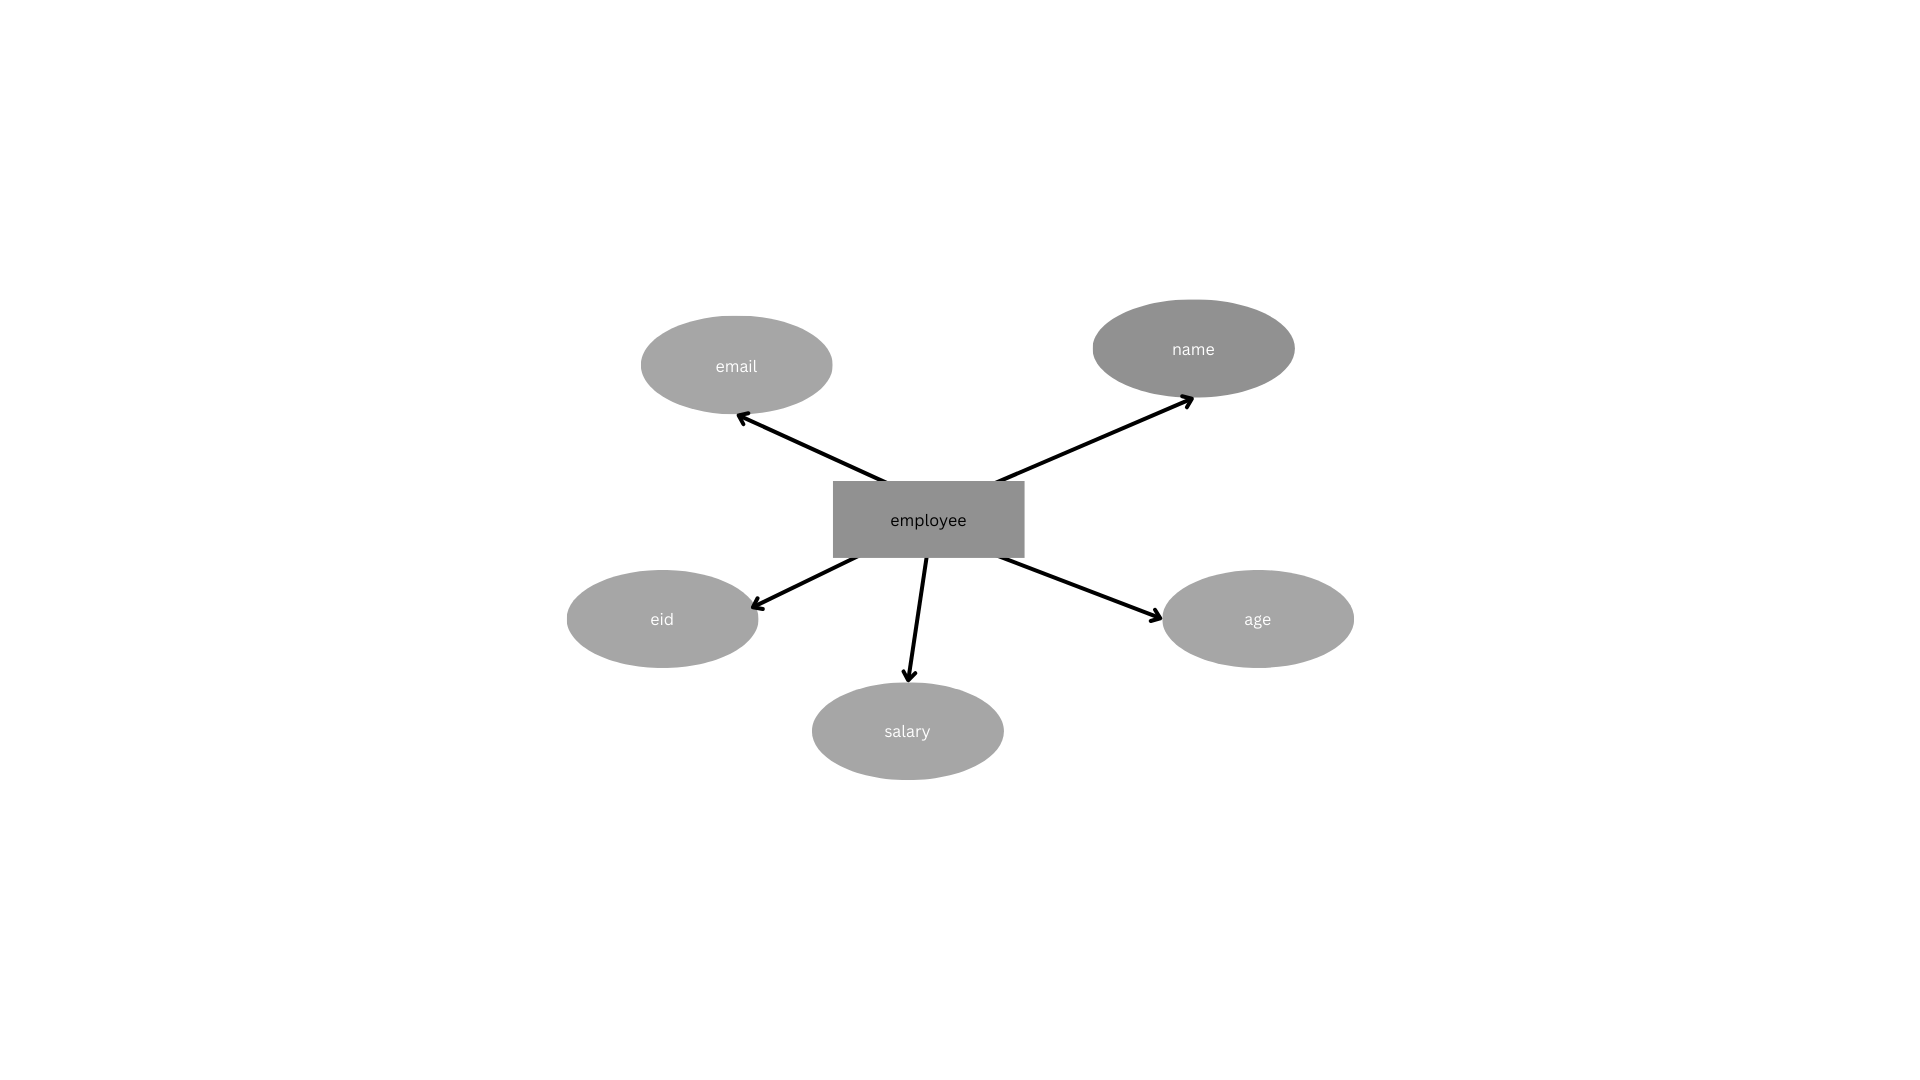
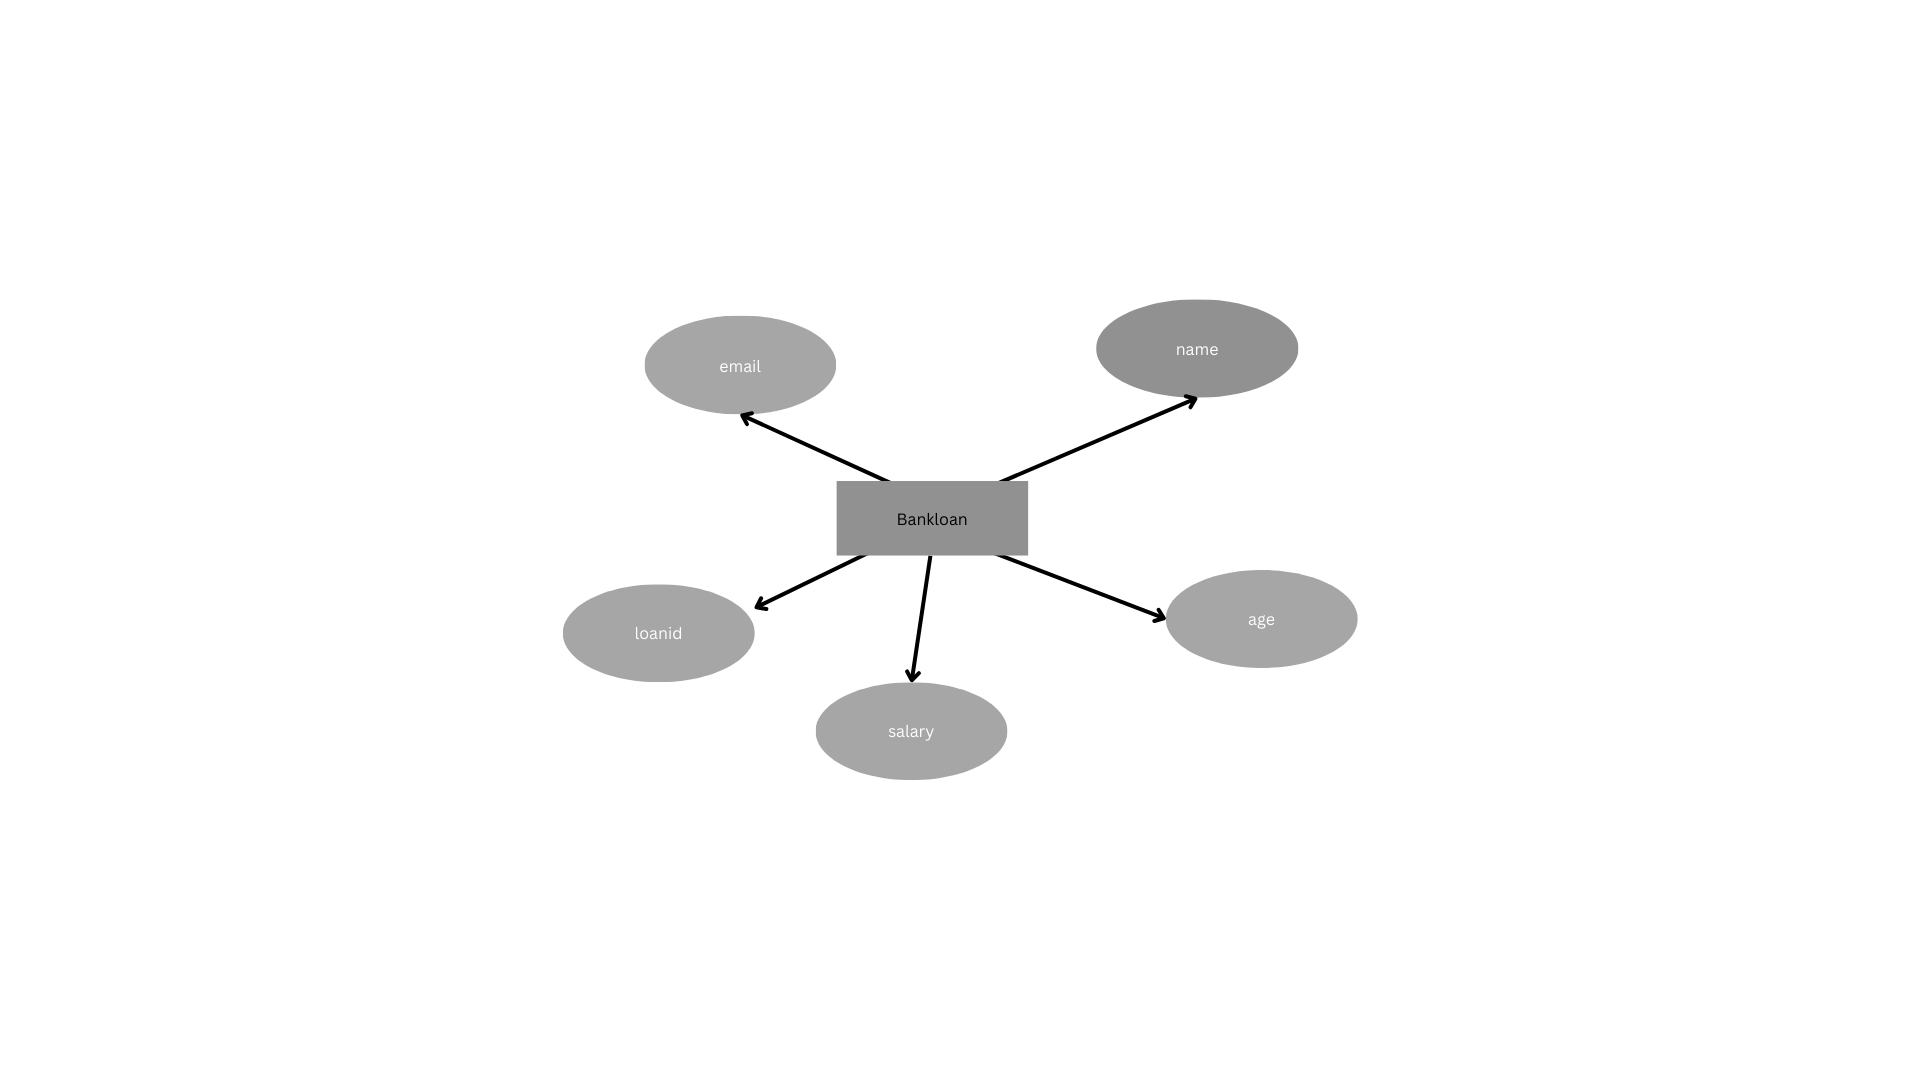
success

diff --git a/john/ormapp/models.py b/john/ormapp/models.py
@@ -1,11 +1,11 @@
 from django.db import models
 from django.contrib import admin 
-class Employee (models.Model):
-    eid=models.CharField(max_length=20,help_text="Employee ID")
+class Bankloan (models.Model):
+    loanid=models.CharField(max_length=20,help_text="Employee ID")
     name=models.CharField(max_length=100)
     salary=models.IntegerField()
     age=models.IntegerField() 
     email=models.EmailField()
 
-class EmployeeAdmin(admin.ModelAdmin):
-    list_display=('eid', 'name', 'salary', "age" , 'email')
+class BankloanAdmin(admin.ModelAdmin):
+    list_display=('loanid', 'name', 'salary', "age" , 'email')

diff --git a/john/ormapp/migrations/0003_rename_eid_bankloan_loanid.py b/john/ormapp/migrations/0003_rename_eid_bankloan_loanid.py
@@ -1,0 +1,18 @@
+# Generated by Django 5.1.2 on 2024-11-11 14:12
+
+from django.db import migrations
+
+
+class Migration(migrations.Migration):
+
+    dependencies = [
+        ('ormapp', '0002_rename_employee_bankloan'),
+    ]
+
+    operations = [
+        migrations.RenameField(
+            model_name='bankloan',
+            old_name='eid',
+            new_name='loanid',
+        ),
+    ]

diff --git a/john/ormapp/migrations/0002_rename_employee_bankloan.py b/john/ormapp/migrations/0002_rename_employee_bankloan.py
@@ -1,0 +1,17 @@
+# Generated by Django 5.1.2 on 2024-11-11 14:06
+
+from django.db import migrations
+
+
+class Migration(migrations.Migration):
+
+    dependencies = [
+        ('ormapp', '0001_initial'),
+    ]
+
+    operations = [
+        migrations.RenameModel(
+            old_name='Employee',
+            new_name='Bankloan',
+        ),
+    ]

diff --git a/john/ormapp/admin.py b/john/ormapp/admin.py
@@ -1,3 +1,3 @@
 from django.contrib import admin
-from .models import Employee, EmployeeAdmin 
-admin.site.register (Employee,EmployeeAdmin)
+from .models import Bankloan, BankloanAdmin 
+admin.site.register (Bankloan,BankloanAdmin)

diff --git a/README.md b/README.md
@@ -50,7 +50,7 @@ class EmployeeAdmin(admin.ModelAdmin):
 ## OUTPUT
 
 Include the screenshot of your admin page.
-![alt text](<Screenshot (11).png>)
+![alt text](<Screenshot (11).png>)~
 
 ## RESULT
 Thus the program for creating a database using ORM hass been executed successfully
